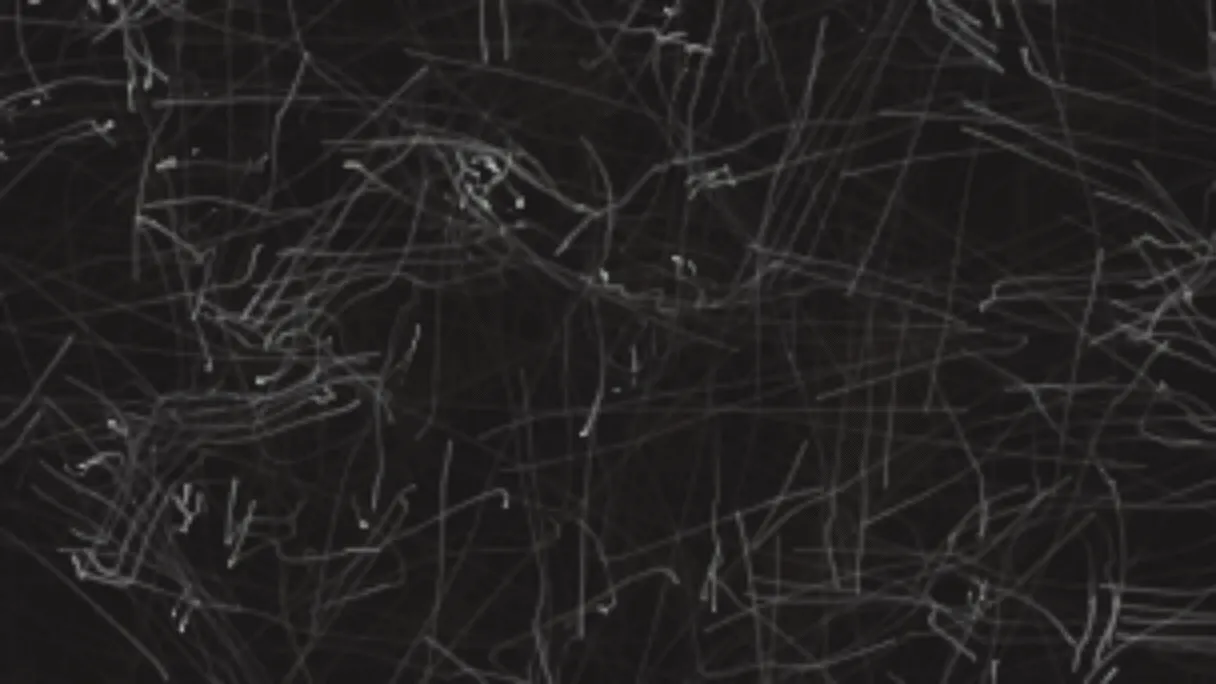
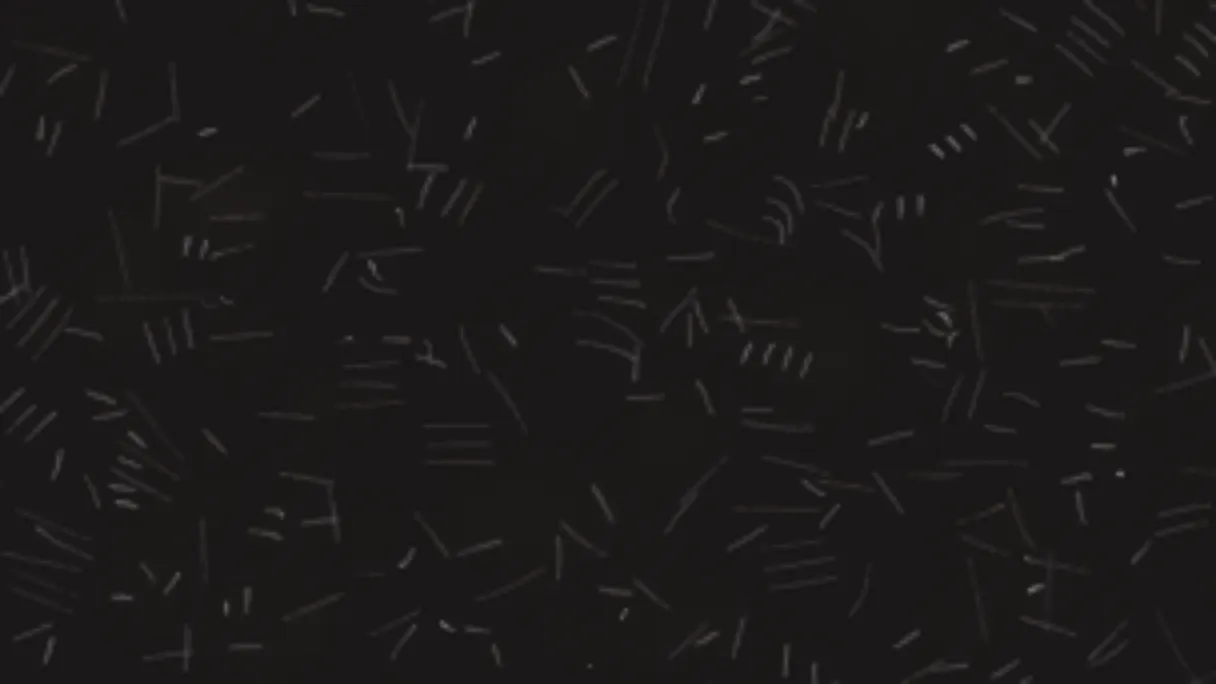
feat(experiments): walkers draws its plate, from half a second of settle
Andrei: "there's enough to freeze on walkers within a second of
opening it." Half a second draws strokes in about 500 ms on a box with
no GPU; a whole second takes 800-1000 ms there, over the budget. The
poster is recaptured from the same recipe. With no piece left on it,
POSTER_ONLY is removed.

diff --git a/src/experiments/gallery/plates.ts b/src/experiments/gallery/plates.ts
@@ -7,7 +7,9 @@
  * on this device, faded in where the poster would have been, which wakes where
  * it stopped (see "Waking" below). The poster stays
  * in the page for everything that cannot do this: no script, a piece that
- * throws, a piece listed in `POSTER_ONLY`, and a device too slow to be asked.
+ * throws, and a device too slow to be asked. Every piece draws: the history of
+ * the ones that once could not is in
+ * `src/experiments/docs/adr/20261102-the-index-draws-its-plates.md`.
  *
  * **Gallery rather than kit**, on the section's own test: nothing here is
  * offered to a piece or declinable by one. It drives a piece through `start`
@@ -32,37 +34,6 @@
 
 import { PLATE, type PosterRecipe } from "@/experiments/poster"
 import { sceneFromPreset, type Live, type Preset, type SettingsModule, type Start } from "@/experiments/piece"
-
-/**
- * Pieces whose poster moment is too far from their start to reach on a page
- * load. They keep their posters until each can start from a state that already
- * looks like it has been running, rather than simulating its way there.
- *
- * Measured on 2026-11-02 on the preview box, which has no GPU, drawing each
- * plate the way this file does with the budget lifted: walkers 39 s (its
- * recipe settles 120 s), crowd 26 s (45 s), flotsam 5.6 s (runs 40 s), hexgrid
- * 2.8 s (sweeps a whole loop for its most lit moment), psyxels 0.8 s (runs
- * 90 s).
- *
- * **Measure before listing a piece here.** Two were listed unmeasured and drew
- * well inside the budget once tried: embers in 289 ms, listed for the settle in
- * its runner's `mount`, which this file never calls; and Starry Night in 30 ms,
- * listed because a fresh sky has no glimmers yet. That is still true, so its
- * plate is a quieter sky than its poster, which is the brightest of twelve
- * frames. Bubbles really was slow, 1.7 s for its old primary, and its primary
- * is now `standing still`, reached through a coarse warm-up; its `poster.ts`
- * says why. Its plate takes about 260 ms, of which `warm` is 220.
- *
- * Crowd, Flotsam and Psyxels draw their first frame, in 176, 219 and 88 ms,
- * rather than the 45, 40 and 90 s their recipes used to run, and Hexgrid looks
- * for its brightest moment every half second instead of every tenth, 358 ms
- * instead of 2.8 s. Their `poster.ts` files say why.
- *
- * Walkers is the one left. Its picture is the ground people have worn, which
- * takes minutes of crowd and tens of seconds of painted trail to arrive at:
- * 5 s of it alone costs 2.5 s.
- */
-const POSTER_ONLY = new Set(["walkers"])
 
 /**
  * Longest a plate may take to draw before the device is judged too slow for
@@ -237,7 +208,7 @@ async function draw(plate: HTMLElement, piece: Piece): Promise<void> {
  * tell a plate that was never meant to be drawn from one that failed or was
  * cut off by the budget.
  */
-type Why = "poster-only" | "reduced motion" | "slow" | "failed" | "not a piece"
+type Why = "reduced motion" | "slow" | "failed" | "not a piece"
 
 function showPoster(plate: HTMLElement, why: Why): void {
   plate.dataset.why = why
@@ -349,10 +320,6 @@ for (const plate of document.querySelectorAll<HTMLElement>(".plate[data-piece]")
     showPoster(plate, "reduced motion")
     continue
   }
-  if (POSTER_ONLY.has(plate.dataset.piece ?? "")) {
-    showPoster(plate, "poster-only")
-    continue
-  }
   fit.observe(plate)
   near.observe(plate)
   watched += 1
@@ -374,7 +341,7 @@ if (watched === 0) document.documentElement.dataset.plates = "idle"
  *
  * Nothing wakes for a visitor who asked for less motion, whose plates are all
  * posters, nor on a device that the drawing judged slow, nor while plates are
- * still being drawn. Walkers is poster-only, so it has no piece to wake.
+ * still being drawn.
  */
 
 /** How long a plate stays awake when the wall wakes it on its own. */
@@ -397,7 +364,7 @@ function sleep(): void {
 
 function wake(plate: HTMLElement): void {
   if (awake === plate) return
-  // First, so pointing at a plate that cannot wake, Walkers or one that
+  // First, so pointing at a plate that cannot wake, a poster or one that
   // failed, still puts the wall's own turn to sleep.
   sleep()
   const live = kept.get(plate)

diff --git a/src/experiments/walkers/poster.ts b/src/experiments/walkers/poster.ts
@@ -11,13 +11,24 @@ import type { PosterRecipe } from "@/experiments/poster"
  * it at a sensible cost, because dwelling is wall-clock and this needs minutes.
  *
  * `settle` is the piece's own verb for exactly this: run the simulation forward
- * without drawing it. Two minutes gets the population to its target, the
- * picnickers onto the ground, and the crowd through one full turnover, which is
- * the state the piece spends the rest of its life in. The last stretch of it is
- * walked over the trail as well, so a primary whose whole picture is where
- * people have been arrives with a ground that has been crossed rather than a
- * clean one — see `TRACE_WARM` in `walkers.ts`, which exists because of this
- * recipe.
+ * without drawing it, walking the last stretch over the trail as well, so a
+ * primary whose whole picture is where people have been arrives with ground
+ * that has been crossed — see `TRACE_WARM` in `walkers.ts`.
+ *
+ * **Half a second, not two minutes.** This recipe used to settle 120 s, the
+ * population at its target and the picnickers down, and the index could not
+ * draw that: its plate is drawn live in a few hundred milliseconds or falls
+ * back to this poster (`../docs/adr/20261102-the-index-draws-its-plates.md`),
+ * and a second of this crowd costs about 600 ms on a box with no GPU, almost
+ * all of it stepping 600-odd people rather than painting their trail. Andrei:
+ * "there's enough to freeze on walkers within a second of opening it. may not
+ * be as built-up as the current poster, but if the poster is allowed to do its
+ * regular cycling it will eventually build up." Half a second draws strokes
+ * rather than dots, and the plate takes about 500 ms; a whole second is
+ * clearer still and comes to 800–1000 ms there, over the budget, which would
+ * turn every plate after it into a poster. The ground builds as the plate is
+ * woken, and keeps what it built, since a plate is paused rather than torn
+ * down.
  *
  * **It names no preset**, which is the section's arrangement rather than an
  * omission: the poster is one of the three surfaces that read the primary, so
@@ -32,11 +43,10 @@ import type { PosterRecipe } from "@/experiments/poster"
  */
 const poster: PosterRecipe<ExperimentApi> = {
   prepare: ({ api }) => {
-    api.settle(120)
+    api.settle(0.5)
   },
 
-  // Nothing to wait for once it is settled: the crowd is established and the
-  // next frame looks like this one.
+  // Settled already: a wait would only add wall-clock time to the capture.
   dwellMs: 0,
 }
 

diff --git a/tests/experiments-index.spec.ts b/tests/experiments-index.spec.ts
@@ -174,7 +174,7 @@ test("every piece that can be drawn draws its plate, as a real frame the width o
     type: "plates",
     description: outcomes.map(({ piece, shown, why, ms }) => `${piece} ${shown} ${why ?? `${ms} ms`}`).join(", "),
   })
-  expect(outcomes.filter(({ shown, why }) => shown !== "live" && why !== "poster-only")).toEqual([])
+  expect(outcomes.filter(({ shown }) => shown !== "live")).toEqual([])
   // Presence, not only the absence of a stray poster: a module that marked
   // every piece poster-only would pass the line above.
   const drawn = page.locator('.plate[data-shown="live"]')
@@ -299,12 +299,13 @@ test("a sleeping plate asks for no frames, and an awake one does", async ({ page
     await expect(plates.nth(i)).toHaveAttribute("data-shown", /^(live|poster)$/, { timeout: 30_000 })
   }
   await expect(page.locator("html")).toHaveAttribute("data-plates", "idle")
-  // Holding Walkers, which is poster-only, keeps every plate asleep and the
-  // wall from taking its turn.
-  await page.locator('.plate[data-piece="walkers"]').scrollIntoViewIfNeeded()
-  await page.locator('.plate[data-piece="walkers"]').hover()
-  await expect(page.locator(".plate[data-awake]")).toHaveCount(0)
+  // Inside the rest between two of the wall's turns: a second of the 1.5 s
+  // after one plate goes back to sleep and before the next wakes.
+  await page.mouse.move(0, 0)
+  await expect(page.locator(".plate[data-awake]")).toHaveCount(1, { timeout: 15_000 })
+  await expect(page.locator(".plate[data-awake]")).toHaveCount(0, { timeout: 15_000 })
   expect(await framesOver(page, 1_000), "a paused piece is still drawing").toBe(0)
+  await expect(page.locator(".plate[data-awake]"), "the wall woke a plate inside the measured second").toHaveCount(0)
 
   await page.locator('.plate[data-shown="live"]').first().scrollIntoViewIfNeeded()
   await page.locator('.plate[data-shown="live"]').first().hover()

diff --git a/src/experiments/AGENTS.md b/src/experiments/AGENTS.md
@@ -412,9 +412,9 @@ captured, not drawn, and it is committed — see
 
 **On the page, the plate is drawn by the piece and the poster is the fallback.**
 `gallery/plates.ts` starts each piece in the poster's box (`PLATE`), runs its
-recipe, draws one frame, destroys it and fades the frame in. A piece in
-`POSTER_ONLY` shows its poster instead, and so does every plate after the first
-that takes longer than the budget. So **a recipe is read twice**: its `prepare`
+recipe, draws one frame, pauses it there and fades the frame in, and a plate
+wakes by unpausing its piece. Every plate after the first that takes longer
+than the budget shows its poster instead. So **a recipe is read twice**: its `prepare`
 gets the piece's verbs, its stats and `pause`, and a recipe that reaches for
 anything else throws on the index. See
 `docs/adr/20261102-the-index-draws-its-plates.md`.

diff --git a/src/experiments/docs/adr/20261102-the-index-draws-its-plates.md b/src/experiments/docs/adr/20261102-the-index-draws-its-plates.md
@@ -66,8 +66,12 @@ recipes ran forty-odd seconds to build, as their `poster.ts` files explain. Ten
 plates come to about 1.5 s, so the total became 3 s at Andrei's word.
 
 Then psyxels by its first frame, and hexgrid by searching its loop every half
-second rather than every tenth: twelve plates, about 1.8 s. Walkers alone keeps
-its poster.
+second rather than every tenth: twelve plates, about 1.8 s.
+
+Then walkers, the last, by half a second of settle rather than two minutes: its
+plate takes about 500 ms, nearly all of it stepping the crowd. Andrei: "there's
+enough to freeze on walkers within a second of opening it." With no piece left
+on it, `POSTER_ONLY` was removed.
 
 **And a visitor who asked for less motion gets every poster.** Each piece
 honours the preference inside its own `start()`, with a still of its own and a
